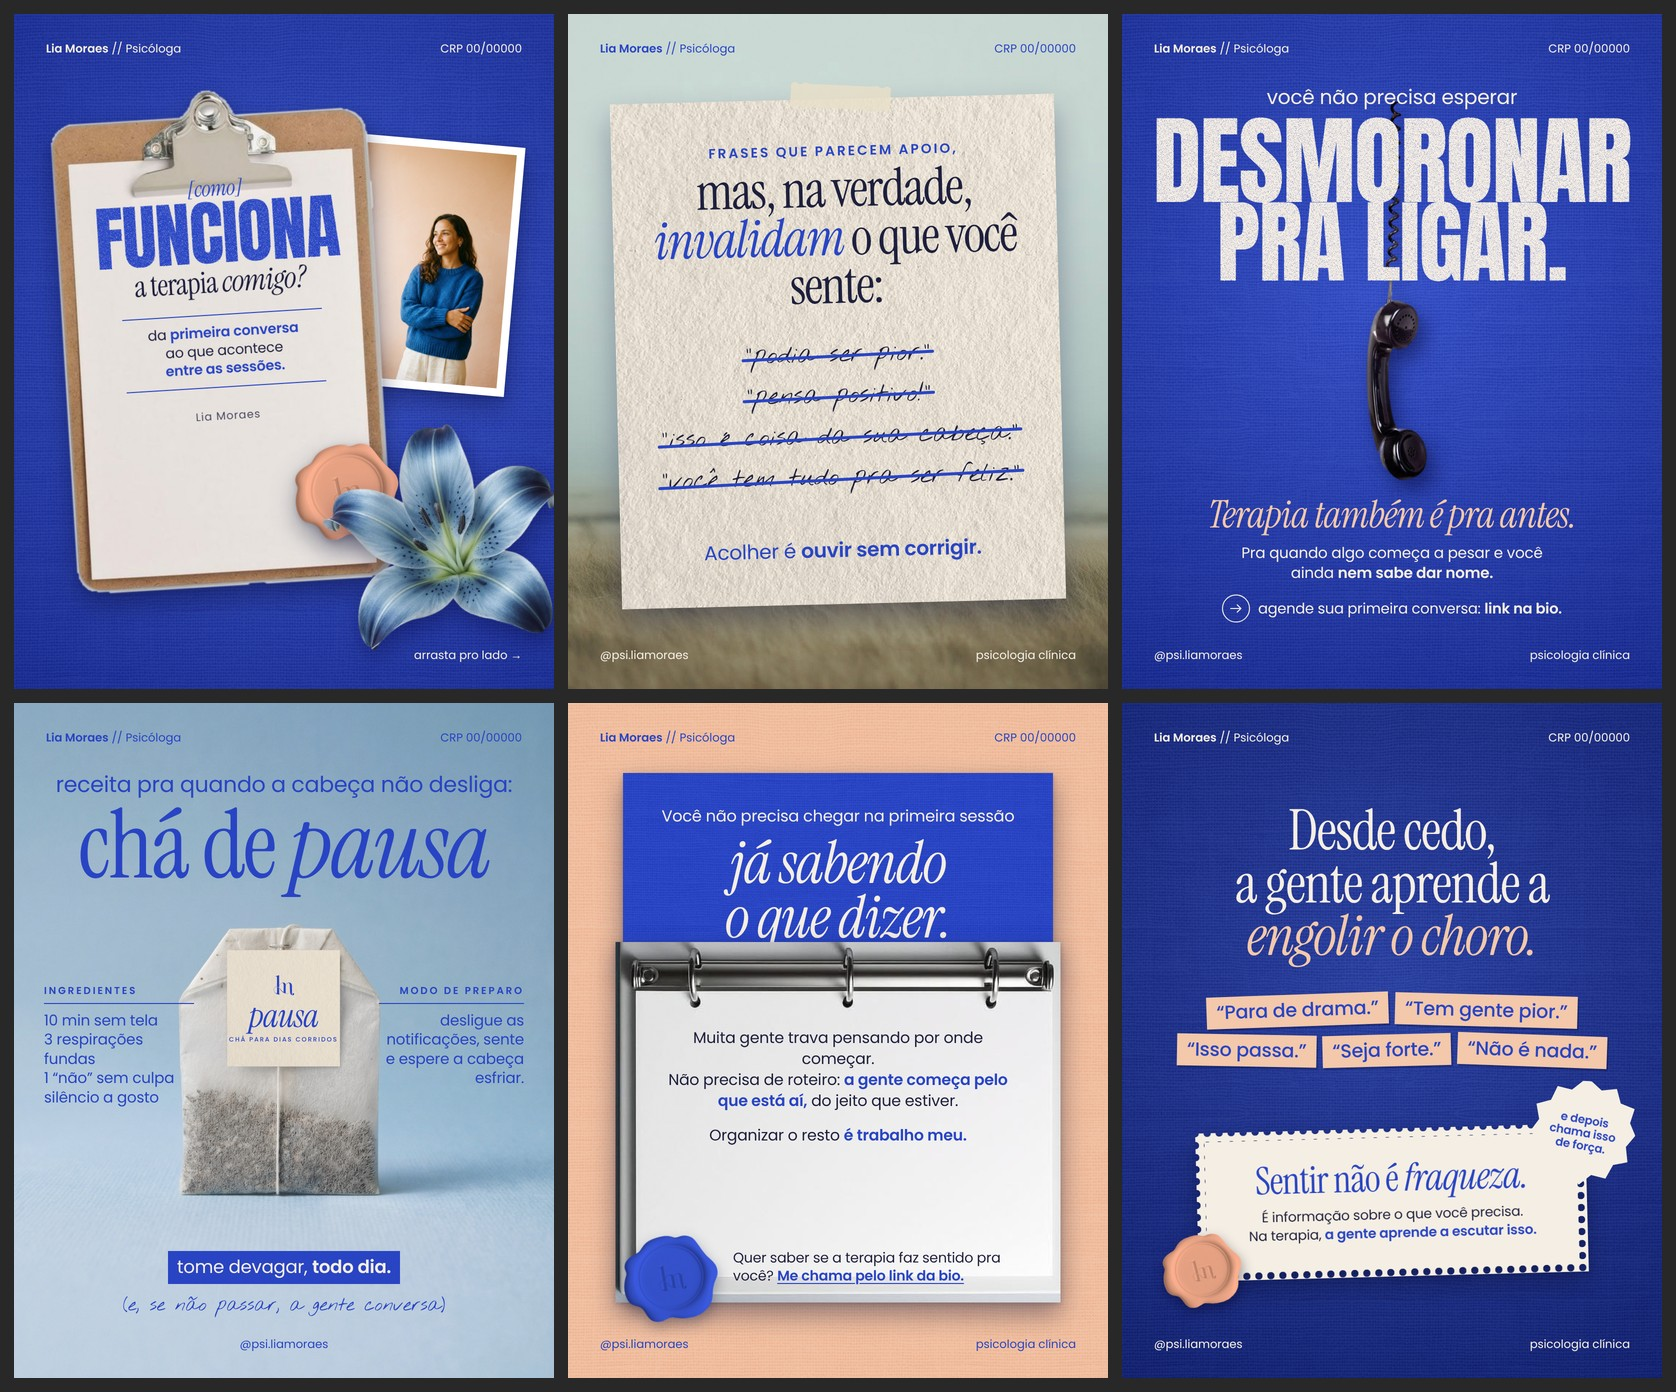
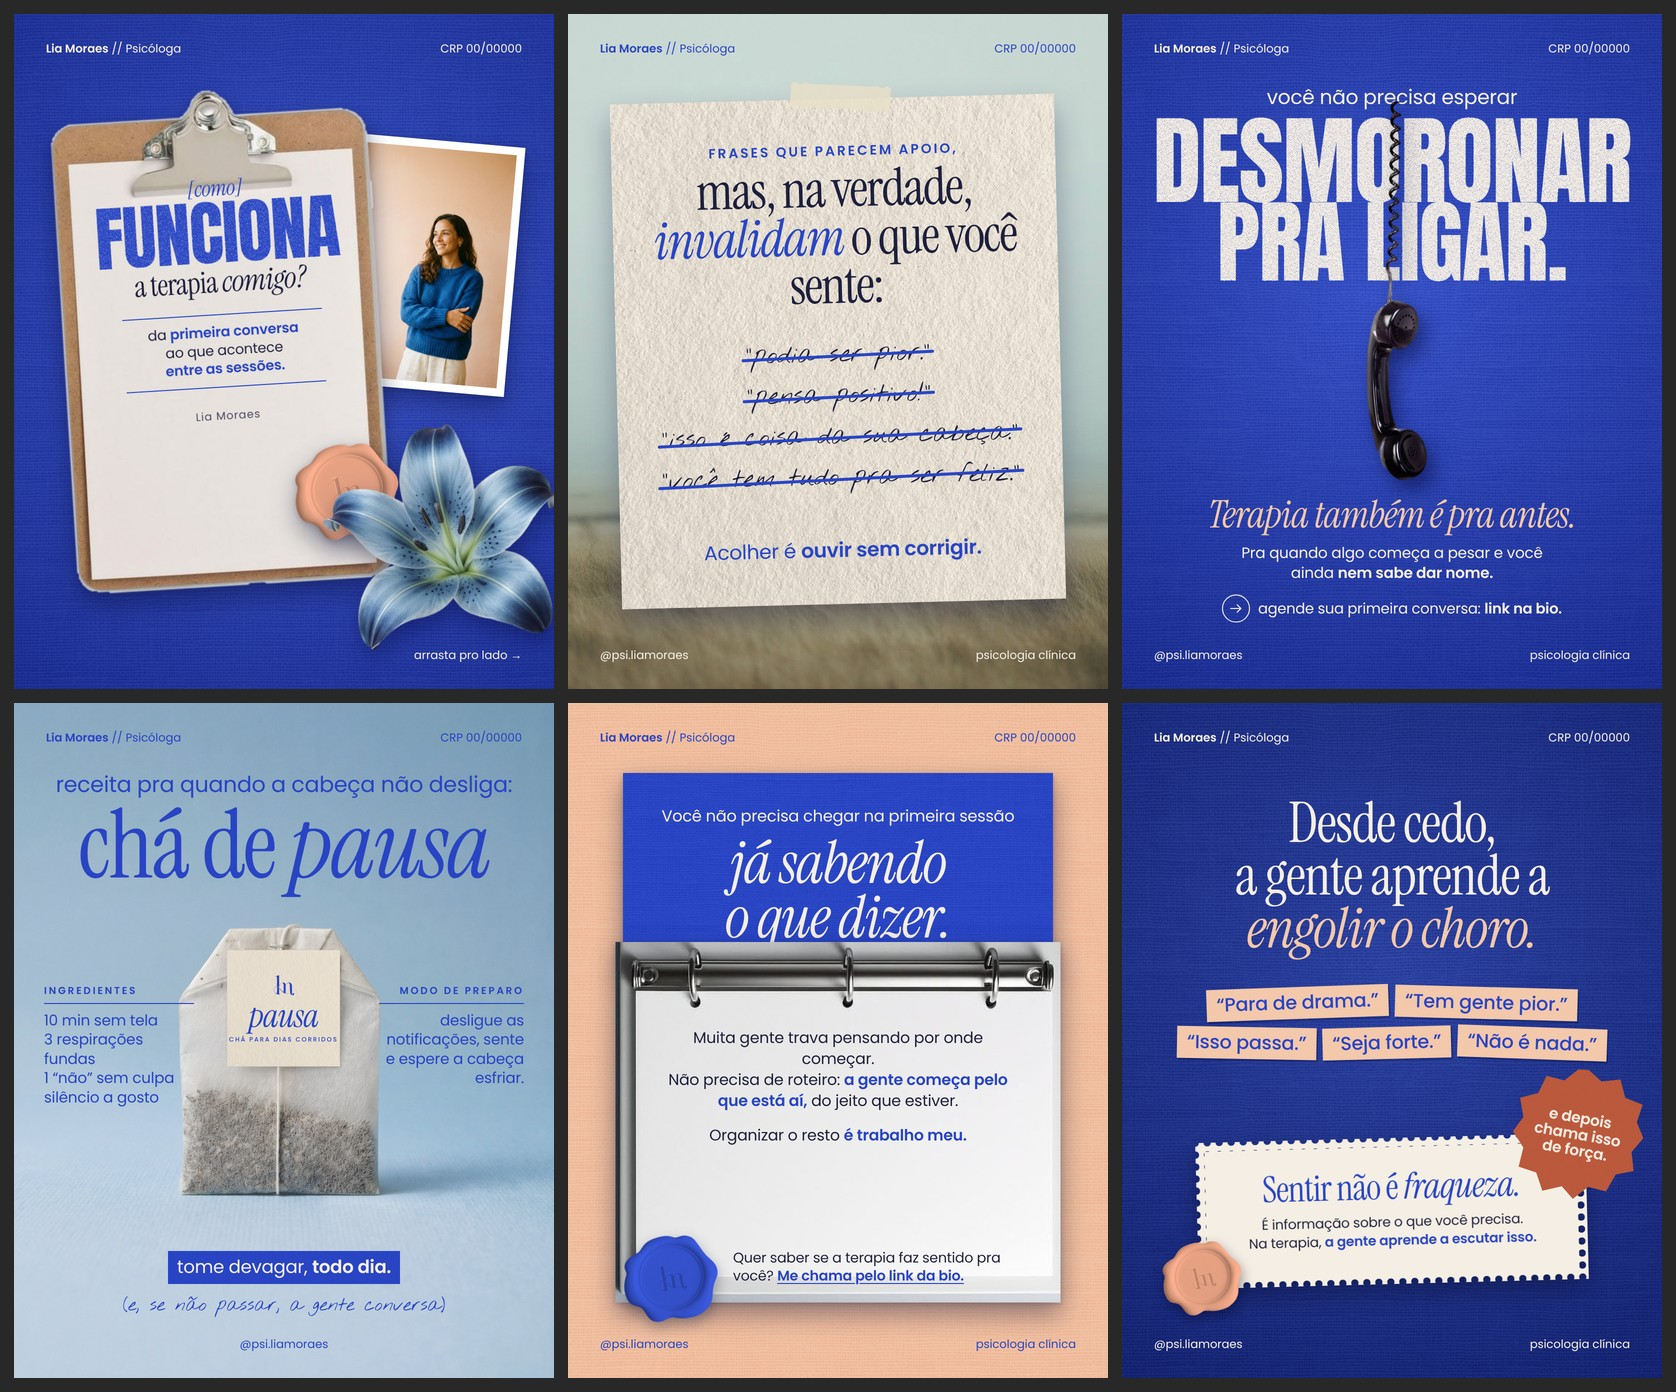
Lia Moraes: fio do telefone por cima do título e selo terracota em destaque
Claude-Session: https://claude.ai/code/session_01CmCiK8Gv7bd1khyaxwEQLc

Changed region(s): [[0.6826, 0.556, 0.9928, 0.9576], [0.8067, 0.0927, 0.8377, 0.1236]]

diff --git a/psicologa-lia-moraes/projeto/posts/posts-v5.html b/psicologa-lia-moraes/projeto/posts/posts-v5.html
@@ -139,7 +139,7 @@ body{background:#777;padding:20px;display:flex;gap:20px;flex-wrap:wrap}
     <div class="js" style="font-size:30px;line-height:1.32;margin-top:18px">Pra quando algo começa a pesar e você<br>ainda <b>nem sabe dar nome.</b></div>
     <div style="display:flex;align-items:center;gap:16px;margin-top:24px"><div style="width:56px;height:56px;border:2.5px solid var(--creme);border-radius:50%;display:grid;place-items:center;flex:none"><svg width="26" height="18" viewBox="0 0 30 22" fill="none" stroke="#F5EEE3" stroke-width="2.6" stroke-linecap="round" stroke-linejoin="round"><path d="M2 11h25M18 2l9 9-9 9"/></svg></div><div class="js" style="font-size:29px">agende sua primeira conversa: <b>link na bio.</b></div></div>
   </div>
-  <img class="abs" id="fone3" src="../fotos-pinterest/colagem/fone-recorte.png" style="height:760px;filter:drop-shadow(14px 22px 18px rgba(0,0,30,.45));z-index:3">
+  <img class="abs" id="fone3" src="../fotos-pinterest/colagem/fone-recorte.png" style="height:760px;filter:drop-shadow(14px 22px 18px rgba(0,0,30,.45));z-index:8">
   <div class="cab rodape"><span>@psi.liamoraes</span><span>psicologia clínica</span></div>
   <div class="grao" style="opacity:.16"></div>
 </div>
@@ -208,14 +208,14 @@ body{background:#777;padding:20px;display:flex;gap:20px;flex-wrap:wrap}
       <span class="etq" style="transform:rotate(-2deg)">“Para de drama.”</span><span class="etq" style="transform:rotate(1.5deg)">“Tem gente pior.”</span><br>
       <span class="etq" style="transform:rotate(1deg)">“Isso passa.”</span><span class="etq" style="transform:rotate(-1.5deg)">“Seja forte.”</span><span class="etq" style="transform:rotate(2deg)">“Não é nada.”</span>
     </div>
-    <div style="position:relative;margin-top:116px">
+    <div style="position:relative;margin-top:150px">
       <div class="selo-borda sombra" style="width:780px;--bg:#F5EEE3;transform:rotate(-1.5deg)">
         <div style="padding:46px 56px 50px;color:var(--c)">
-          <div class="is" style="font-size:76px;line-height:.95">Sentir não é <i>fraqueza.</i></div>
+          <div class="is" style="font-size:72px;line-height:.95">Sentir não é <i>fraqueza.</i></div>
           <div class="js" style="font-size:27px;line-height:1.36;margin-top:18px;color:var(--tinta)">É informação sobre o que você precisa.<br>Na terapia, <b style="color:var(--c)">a gente aprende a escutar isso.</b></div>
         </div>
       </div>
-      <div class="flor-escalope sombra" style="right:-96px;top:-96px;width:210px;height:210px;transform:rotate(10deg)"><div class="js" style="font-size:23px;line-height:1.12;padding:0 30px"><b>e depois chama isso de força.</b></div></div>
+      <div class="flor-escalope sombra" style="right:-112px;top:-138px;width:262px;height:262px;transform:rotate(10deg);background:#B8553A;color:#F5EEE3"><div class="js" style="font-size:30px;line-height:1.08;padding:0 38px"><b>e depois chama isso de força.</b></div></div>
       <img class="abs" src="../fotos-pinterest/colagem/lacre-pessego.png" style="left:-70px;bottom:-60px;width:160px;transform:rotate(-14deg);filter:drop-shadow(0 10px 12px rgba(0,0,30,.4))">
     </div>
   </div>
